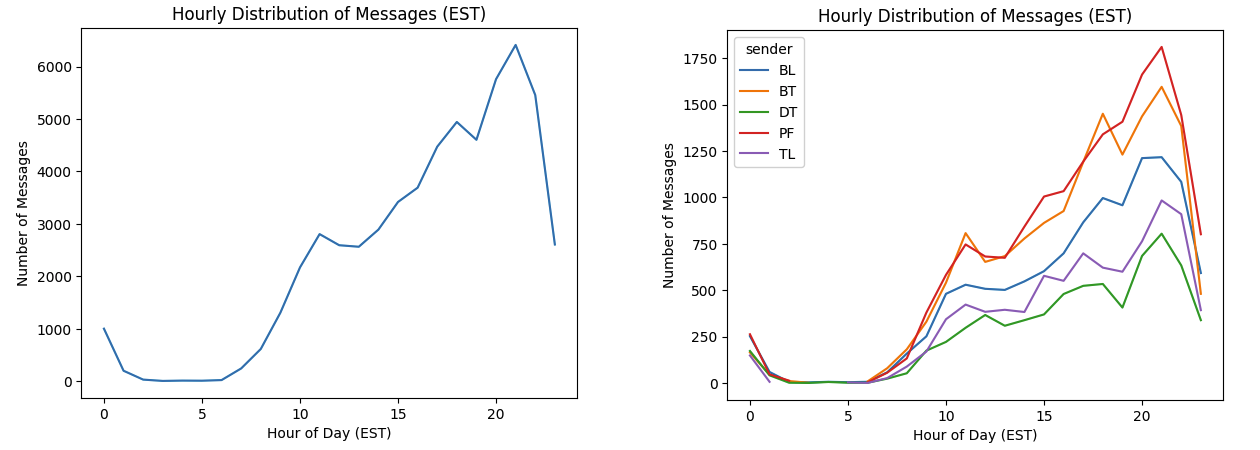
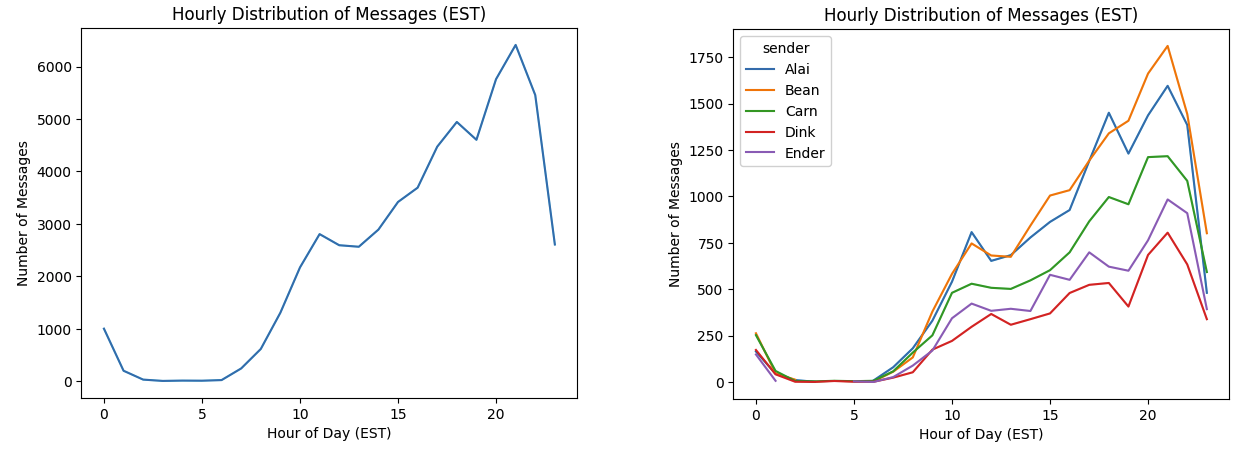
draft blog

Changed region(s): [[0.5262, 0.0, 0.9905, 0.9956], [0.5571, 0.7156, 0.619, 0.84], [0.5571, 0.84, 0.5881, 0.8711]]

diff --git a/static/css/blog.css b/static/css/blog.css
@@ -65,7 +65,24 @@ img {
     margin-bottom: 0.5em;
 }
 
+/* Style for tables */
+table {
+    border-collapse: collapse;
+    margin: 0 auto; /* Center table horizontally */
+    width: 30%; /* Adjust width as needed */
+}
 
+/* Table cells */
+td, th {
+    border: 1px solid black;
+    padding: 8px;
+    text-align: left; /* Adjust if you prefer center or right alignment */
+}
+
+/* Table headers */
+th {
+    background-color: #f2f2f2; /* Light gray background */
+}
 
 @media (max-width: 768px) {
     .post-gallery {

diff --git a/content/blog/chat-classification-pt2.md b/content/blog/chat-classification-pt2.md
@@ -1,0 +1,55 @@
+---
+title: "Group Chat Classificiation Part 2: Model Evaluation and Naive Classifier"
+date: 2023-08-23
+draft: True
+---
+In the [previous blog](../chat-classification-pt1), we loaded in my group chat messages and looked at some of the trends in the data. Before we can start chugging away on models, we have to answer the question: How do we know if we built a good model? There are many ways to answer this question. You can go really deep down the rabbit hole of measuring model quality (just ask ChatGPT), but for the sake of this post we will use the basic measure of [accuracy](https://developers.google.com/machine-learning/crash-course/classification/accuracy). Accuracy is defined as the proportion of the time you correctly classify the input. 
+
+In our case, this means the proportion of time that we correctly identify who sent a message without knowing who that is beforehand. For example, if our model correctly predicted 4 messages' senders and incorrectly predicted 6 messages' senders, our accuracy would be 4 / (4+6) = 40%.
+
+<!-- more -->
+
+### Building a Classifier Evaluator
+As mentioned above, accuracy can be calculated as the number of correct predictions divided by the total number of predictions. There are multiple ways we could represent this in code (each potential class could be represented as a string, each class could be coded as an integer, etc.), but we will take the common Machine Learning approach of vectorizing both the predictions and ground truth. The ground truth will be encoded using [one-hot encoding](https://en.wikipedia.org/wiki/One-hot), where each potential class is an element in a vector (list of integers) where all values are 0 except for the correct output, which is 1. For example if we have a list of senders Bob, Fred, and John and a particular message was sent by John, the one hot vector may look like: `[0, 0, 1]`.
+
+Vectorizing the inputs will be simple as most models we work with in this series will be probabilistic models that output a probability of each class being the correct class. In the example above, if we had a good model it might output `[0.1, 0.2, 0.7]`. To determine which prediction the model "made", we'll pick the element with the highest probability. In the case where our model outputs a specific class instead of a vector of probabilities, we can use the same one-hot encoding strategy as we do for the ground truth.
+
+It is common for the actual values or classes to be called `ys` and the predicted values to be called `yhats`, and that is the terminology I use in [my code](https://github.com/BrysonL/groupchat-classification/blob/main/classifier_evaluator.py). Here's the implementation of my accuracy function:
+
+```python
+def evaluate(self, ys, yhat):
+        yhat_one_hot = F.one_hot(yhat.argmax(dim=1), num_classes=ys.shape[1])
+
+        correct_predictions = (ys == yhat_one_hot).all(dim=1).float().sum()
+        accuracy = correct_predictions / ys.shape[0]
+
+        return accuracy.item()
+```
+
+This code uses pytorch and some specific functions therein, but it follows the approach outlined above: take the predicted and actual values, choose which class the prediction indicated, and then calculate the accuracy as the proportion of the time the model made the right choice.
+
+While less quantitative, we'll also add the ability for our ClassifierEvaluator to create a [confusion matrix](https://en.wikipedia.org/wiki/Confusion_matrix). A confusion matrix will tell us how often the model predicted each sender when it should have been another. This can give us insight like which of the senders the model has a hard time distinguishing between. It won't be as quantitatively useful for comparing models (i.e. we'll have a hard time using it to tell if model A is better than model B), but it will be generally helpful at identifying the strengths and weaknesses of each model. (As an aside, it can also be used to calculate the accuracy by summing along the diagonal and dividing by the total number of messages.):
+
+```python
+def compute_confusion_matrix(self, true, pred):
+    n = true.shape[0]
+    # Create an index tensor of shape [n, 2] where the first column is the true class and the second is the predicted class
+    indices = torch.stack((true, pred), dim=1)
+    
+    # Use bincount to count occurrences of each pair of indices
+    conf_matrix = torch.bincount(indices[:, 0] * self.num_classes + indices[:, 1], minlength=self.num_classes**2)
+    
+    # Reshape the resulting vector to get the 2D confusion matrix
+    conf_matrix = conf_matrix.reshape(self.num_classes, self.num_classes)
+    
+    return conf_matrix
+```
+
+Testing this code out on a random set off 100 predictions and ground truths as an illustration yields the following matrix:
+||   Bob | Fred   |  John  |
+|----|----|----|----|
+|**Bob**| 10 | 13 | 14 |
+|**Fred**|  6 | 11 | 16 |
+|**John**|  9 | 12 |  9 |
+
+In confusion matrices, the rows represent the actual values and columns represent the predicted values. Using the above as an example, this means that when the true value was Bob, our random model predicted the value was Bob 10 times, Fred 13 times, and John 14 times. To calculate the accuracy, you can sum along the diagonals, in this case that's (1,1), (2,2) and (3,3). Dividing that by the total number of trials (100) gives us an accuracy of 30/100 or 30%, about what you'd expect for random selection between 3 options.

diff --git a/content/blog/chat-classification-pt1.md b/content/blog/chat-classification-pt1.md
@@ -1,6 +1,5 @@
 ---
 title: "Group Chat Classificiation Part 1: Data Loading and Visualization"
-thumbnail: "img/puzzle-bobble-strategy.jpg"
 date: 2023-08-22
 draft: False
 ---
@@ -39,8 +38,8 @@ A full analysis would take much longer than I'm willing to give it and you all w
 * Most Messages in a Day: 830
 * Average Messages per Day: 15.65
 * Average Messages per Active Day: 27.10
-* Most Active Sender: PF with 16125 messages
-* Least Active Sender: DT with 6793 messages
+* Most Active Sender: Bean with 16125 messages
+* Least Active Sender: Dink with 6793 messages
 
 (In case you're curious, the most heavily-messaged day was spent discussing [shiny pokemon](https://bulbapedia.bulbagarden.net/wiki/Shiny_Pok%C3%A9mon) and making fun of each other for high school crushes.) I think the most noteworthy stat is the sheer volume of messages we sent. Over 15 messages a day for 10 years! Let's see if that's consistent over time by plotting the 30 day moving average of messages per day both in total and per sender:
 
@@ -50,11 +49,11 @@ You can see from the first chart that we spiked pretty hard the first year of th
 
 {{< img src="img/blog/classification/class-sendercount.jpg" alt="Messages per sender" class="container">}}
 
-It's not perfectly even (DT has sent ~40% as many messages as PF), but the proportions are close enough that I think it will be an interesting problem. This is confirmed by calculating the [Entropy](https://en.wikipedia.org/wiki/Entropy_(information_theory)) of the distribution. Read that link to better understand, but essentially entropy is a measure of how much uncertainty is intrinsic to our data set. Higher values of entropy mean the data are more random and thus harder to predict or classify. Using a log of base two (giving us the resulting entropy in bits), the entropy of our distribution is 2.25 compared to the maximum entropy (if the messages were equally distributed among senders) of 2.32, confirming that this is indeed a "hard" classification problem.  
+It's not perfectly even (Dink has sent ~40% as many messages as Bean), but the proportions are close enough that I think it will be an interesting problem. This is confirmed by calculating the [Entropy](https://en.wikipedia.org/wiki/Entropy_(information_theory)) of the distribution. Read that link to better understand, but essentially entropy is a measure of how much uncertainty is intrinsic to our data set. Higher values of entropy mean the data are more random and thus harder to predict or classify. Using a log of base two (giving us the resulting entropy in bits), the entropy of our distribution is 2.25 compared to the maximum entropy (if the messages were equally distributed among senders) of 2.32, confirming that this is indeed a "hard" classification problem.  
 
 {{< img src="img/blog/classification/class-hourlydistribution.png" alt="Hourly distribution of messages" class="container">}}
 
-Looking at the hourly distribution of messages, we see that for the most part all senders are pretty consistent. We're all most active in the evening (peaking around 9pm) and relatively inactive in the morning. Out of all the 50k messages, only 7 were sent between 3 and 4am ET and DT and BL are the only senders who have sent messages every hour of the day.
+Looking at the hourly distribution of messages, we see that for the most part all senders are pretty consistent. We're all most active in the evening (peaking around 9pm) and relatively inactive in the morning. Out of all the 50k messages, only 7 were sent between 3 and 4am ET and Dink and Carn are the only senders who have sent messages every hour of the day.
 
 {{< img src="img/blog/classification/class-monthdistribution.jpg" alt="Monthly distribution of messages" class="container">}}
 

diff --git a/content/blog/puzzle-bobble-strategy.md b/content/blog/puzzle-bobble-strategy.md
@@ -1,6 +1,5 @@
 ---
 title: "Puzzle Bobble Strategy"
-thumbnail: "img/puzzle-bobble-strategy.jpg"
 date: 2023-07-18
 ---
 Recently, I was visiting my middle-school cousins who have an arcade simulator that lets two players play a variety of classic video games (one like [this](https://a.co/d/hJeHHxd)). One of the games we played was called [Puzzle Bobble](https://en.wikipedia.org/wiki/Puzzle_Bobble). I don't usually learn anything about business strategy from a '90s arcade game, but the unintuitive winning strategy for this one made me question that assumption.

diff --git a/content/blog/tswizzle.md b/content/blog/tswizzle.md
@@ -1,6 +1,5 @@
 ---
 title: "What's on the shirt, Taylor?"
-thumbnail: "img/t-swizzle.jpeg"
 date: 2023-07-25
 ---
 What follows is the harrowing ordeal of one man's quest to make the perfect Era's tour outfit. In the process I made what may actually be a novel discovery in the thoroughly investigated world of Taylor Swift. It all started on November 16, 2022...
